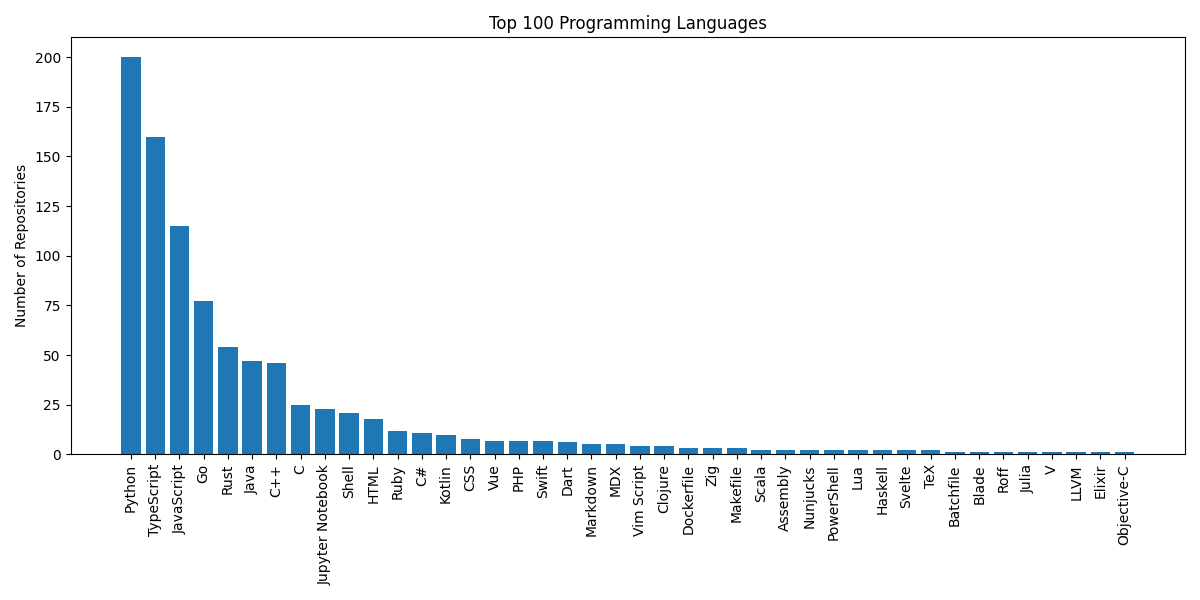
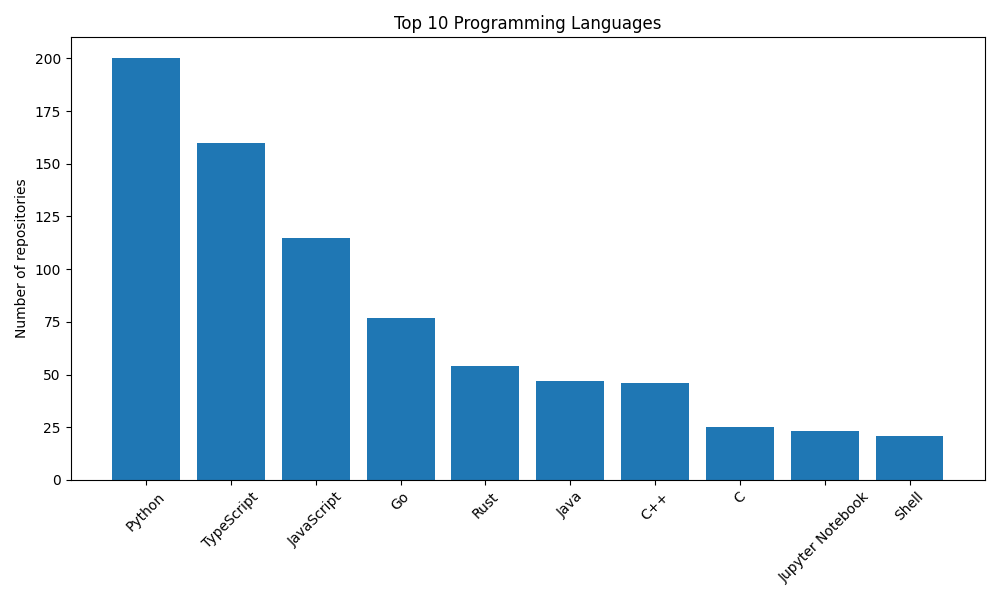
corrigindo os graficos

diff --git a/analysis.py b/analysis.py
@@ -85,52 +85,77 @@ def generate_analysis_csv(results, language_freq):
             writer.writerow([lang, count])
 
 
-def plot_all_metrics(results):
+# -----------------------------
+# HISTOGRAMA PARA RQs
+# -----------------------------
+def plot_rq_distribution(data, median_value, title, xlabel, filename):
 
-    fig, axs = plt.subplots(2, 3, figsize=(12, 8))
+    plt.figure(figsize=(8,5))
 
-    metrics = [
-        ("Repository Age (days)", results["median_age_days"]),
-        ("Merged PRs", results["median_merged_prs"]),
-        ("Releases", results["median_releases"]),
-        ("Last Update (days)", results["median_last_update_days"]),
-        ("Closed Issue Ratio", results["median_issue_ratio"]),
-    ]
+    plt.hist(data, bins=30)
 
-    axs = axs.flatten()
+    plt.axvline(
+    x=median_value,
+    color="#FF0000",
+    linestyle="--",
+    linewidth=3,
+    zorder=10,
+    label=f"Median: {median_value:.2f}"
+)
 
-    for i, (label, value) in enumerate(metrics):
+    plt.title(title)
+    plt.xlabel(xlabel)
+    plt.ylabel("Number of repositories")
 
-        axs[i].bar(["median"], [value])
-        axs[i].set_title(label)
-
-        axs[i].text(0, value, f"{value:.2f}", ha="center", va="bottom")
-
-    # remove subplot vazio
-    fig.delaxes(axs[5])
+    plt.legend()
 
     plt.tight_layout()
 
-    plt.savefig("repository_metrics.png")
+    plt.savefig(filename)
+
+    plt.close()
+
+    plt.figure(figsize=(8,5))
+
+    plt.hist(data, bins=30)
+
+    plt.axvline(
+        median_value,
+        linestyle="dashed",
+        label=f"Median: {median_value:.2f}"
+    )
+
+    plt.title(title)
+    plt.xlabel(xlabel)
+    plt.ylabel("Number of repositories")
+
+    plt.legend()
+
+    plt.tight_layout()
+
+    plt.savefig(filename)
 
     plt.close()
 
 
+# -----------------------------
+# TOP LINGUAGENS
+# -----------------------------
 def plot_top_languages(language_freq):
 
-    top = language_freq.most_common(100)
+    top = language_freq.most_common(10)
 
     languages = [x[0] for x in top]
     counts = [x[1] for x in top]
 
-    plt.figure(figsize=(12, 6))
+    plt.figure(figsize=(10,6))
 
     plt.bar(languages, counts)
 
-    plt.title("Top 100 Programming Languages")
-    plt.ylabel("Number of Repositories")
+    plt.title("Top 10 Programming Languages")
+    plt.ylabel("Number of repositories")
 
-    plt.xticks(rotation=90)
+    plt.xticks(rotation=45)
 
     plt.tight_layout()
 
@@ -138,8 +163,9 @@ def plot_top_languages(language_freq):
 
     plt.close()
 
+
 # -----------------------------
-# MAIN
+# MAIN (ANÁLISE)
 # -----------------------------
 if __name__ == "__main__":
 
@@ -147,7 +173,56 @@ if __name__ == "__main__":
 
     results, language_freq = compute_metrics(data)
 
+    plt.style.use("default")
+
     generate_analysis_csv(results, language_freq)
 
-    plot_all_metrics(results)
+    # RQ1 — idade dos repositórios
+    plot_rq_distribution(
+        data["age_days"],
+        results["median_age_days"],
+        "RQ1 – Repository Age Distribution",
+        "Repository age (days)",
+        "rq1_repo_age.png"
+    )
+
+    # RQ2 — contribuição externa
+    plot_rq_distribution(
+        data["merged_prs"],
+        results["median_merged_prs"],
+        "RQ2 – Merged PRs Distribution",
+        "Merged pull requests",
+        "rq2_merged_prs.png"
+    )
+
+    # RQ3 — releases
+    plot_rq_distribution(
+        data["releases"],
+        results["median_releases"],
+        "RQ3 – Releases Distribution",
+        "Number of releases",
+        "rq3_releases.png"
+    )
+
+    # RQ4 — frequência de atualização
+    plot_rq_distribution(
+        data["last_update_days"],
+        results["median_last_update_days"],
+        "RQ4 – Last Update Distribution",
+        "Days since last update",
+        "rq4_last_update.png"
+    )
+
+    # RQ6 — proporção de issues fechadas
+    plot_rq_distribution(
+        data["issue_ratio"],
+        results["median_issue_ratio"],
+        "RQ6 – Closed Issue Ratio Distribution",
+        "Closed issue ratio",
+        "rq6_issue_ratio.png"
+    )
+
+    # linguagens
     plot_top_languages(language_freq)
+
+    print("Análise e gráficos gerados com sucesso!")
